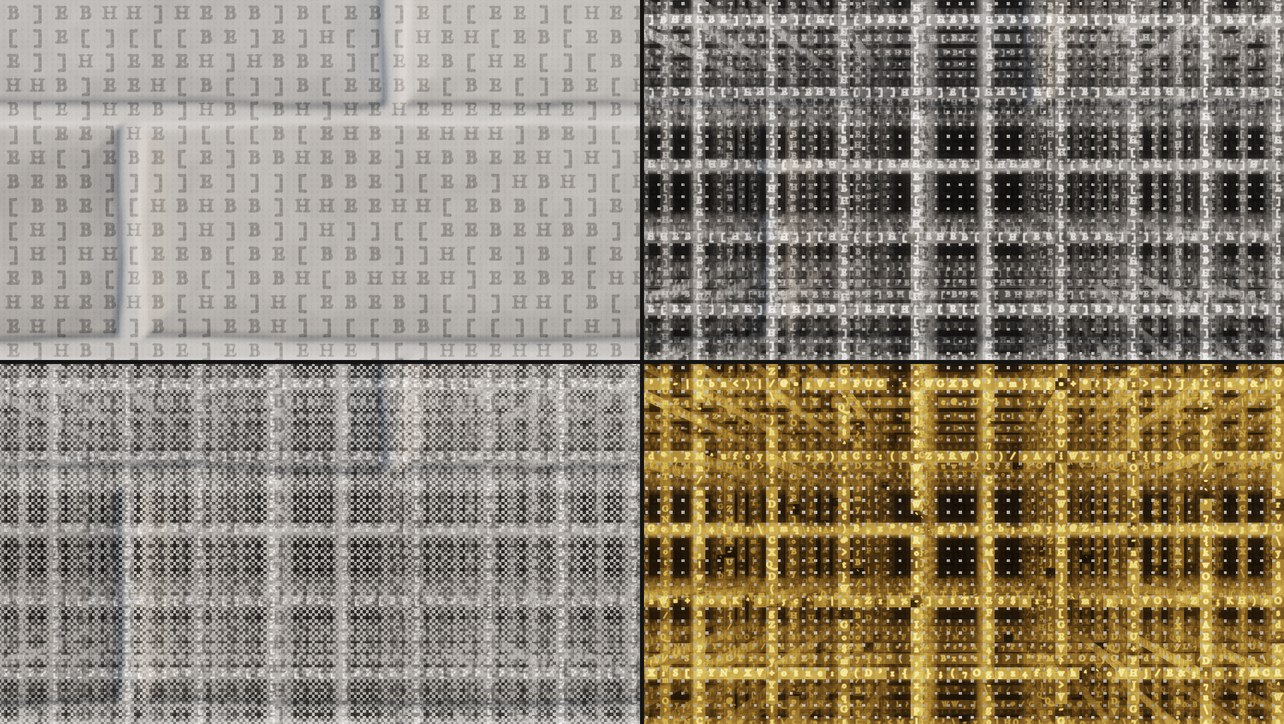
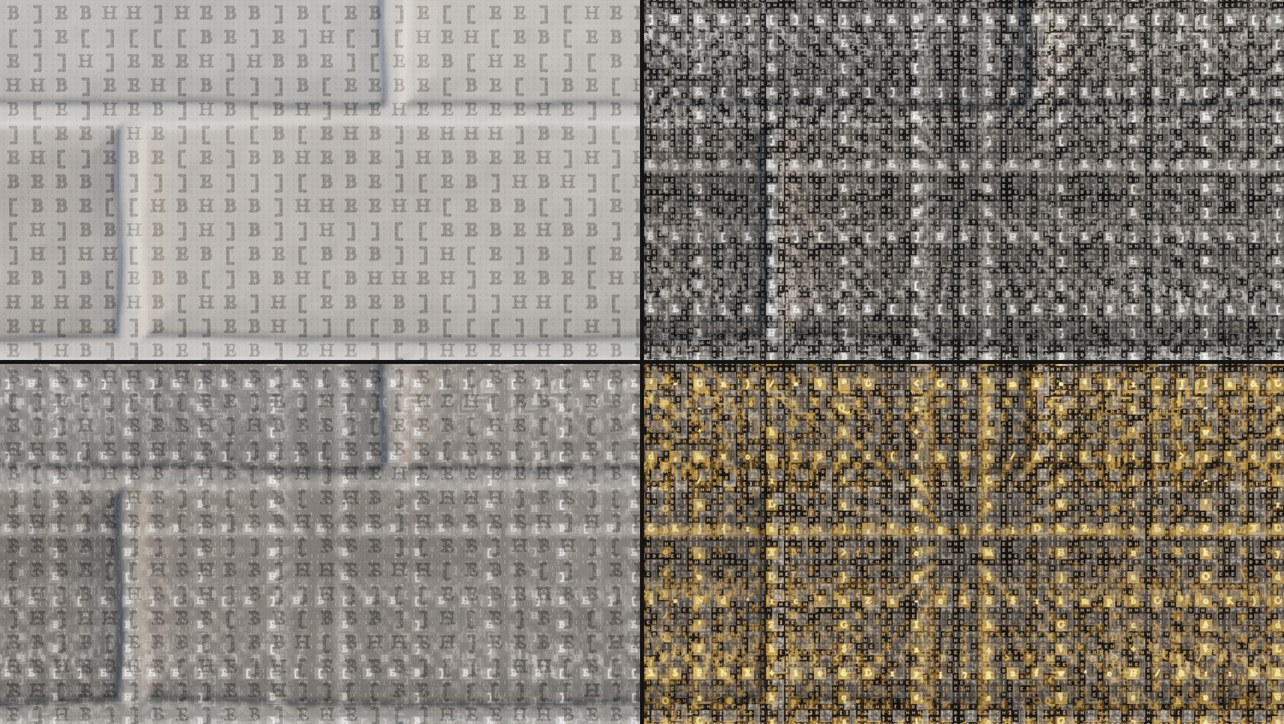
feat(looks): nothing but characters: no dither dots, no solid edges
At the owner's direction. The texture no longer dissolves through an ordered
dither, whose dots are squares; it retreats into the strokes of the surface's own
fine print. Along a lattice edge every other cell is empty, so each character
stands alone and the grid is only their alignment.

Claude-Session: https://claude.ai/code/session_01729CUtx9ecYqazyoA1zXTK

diff --git a/docs/DECISIONS.md b/docs/DECISIONS.md
@@ -14,6 +14,13 @@ own ray.
 **No line is drawn.** Only cells on the lattice's edges hold characters. Crossings are
 drawn brighter, since they are what the eye lines up into a frame.
 
+**Nothing in a depth look is anything but a character.** The texture was first taken
+away with an ordered dither, whose dots are small squares, and the lattice's edges were
+solid rows of characters that read as bars. Both were geometry that is not writing, and
+the owner asked for it gone. Now the texture retreats into the strokes of the surface's
+own fine print, and along a lattice edge every other cell is empty, so each character
+stands alone and the grid is only their alignment.
+
 **The lattice is written in the thing's own letters, and lit only by depth.** A version
 ruled in ASCII's special characters, with a pulse, a colour shift with depth, glowing
 crossings, and loose drifting characters, was built and shown; the owner preferred the
